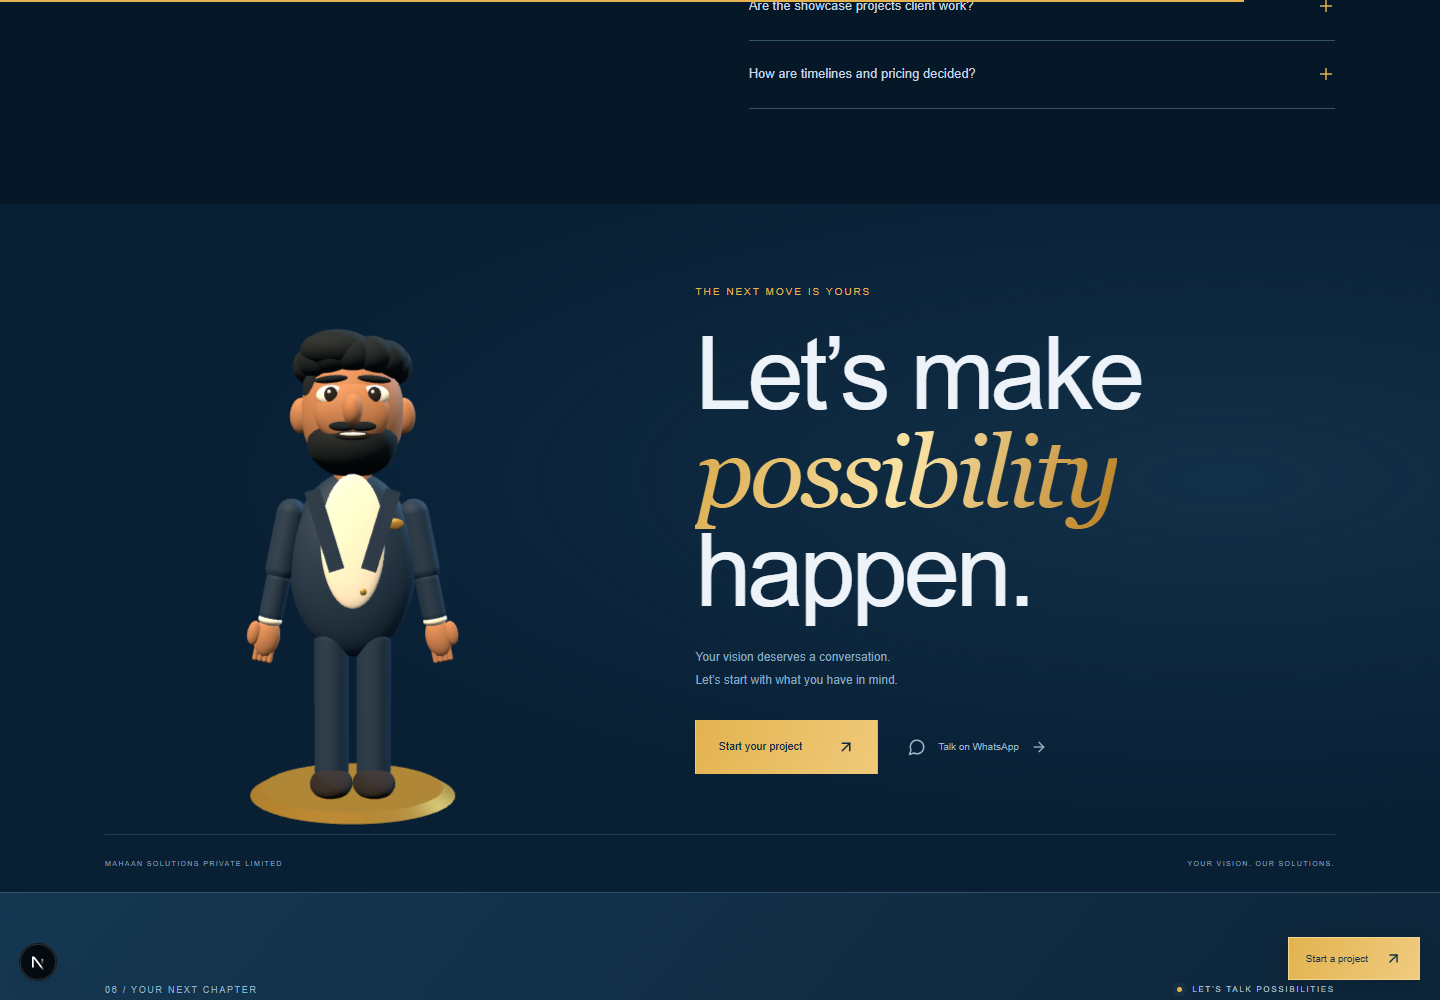
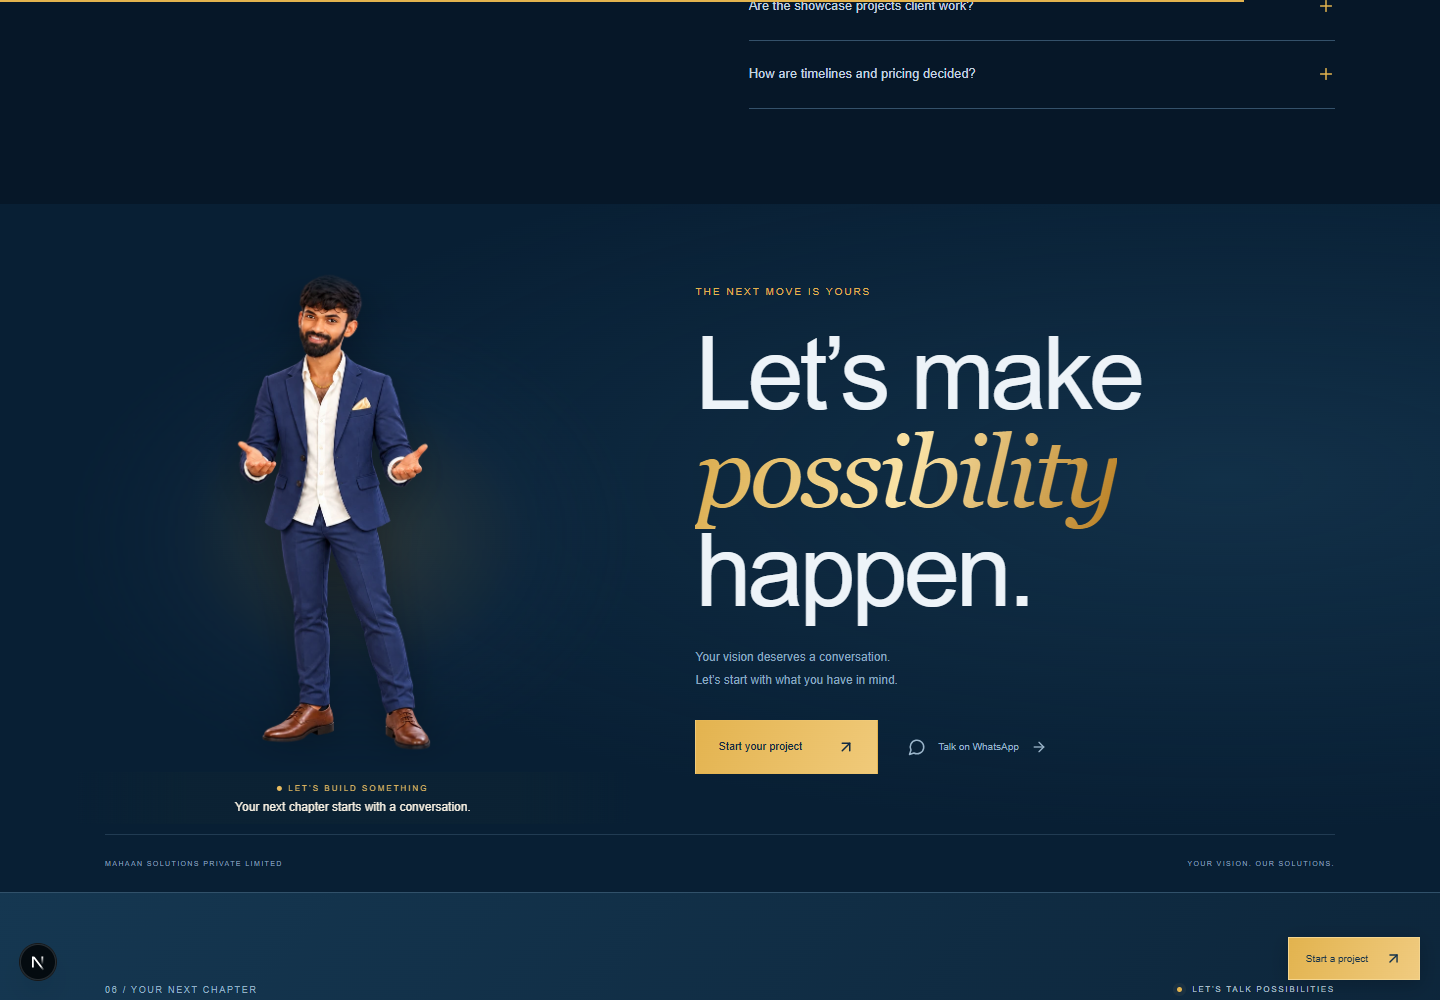
Update Site source

Changed region(s): [[0.1562, 0.279, 0.3438, 0.837]]

diff --git a/src/components/CartoonFounder.tsx b/src/components/CartoonFounder.tsx
@@ -1,44 +1,27 @@
 'use client';
 import {useEffect,useRef,useState} from 'react';
 import {createPortal} from 'react-dom';
-import * as T from 'three';
 import {useFounderVoice} from './FounderVoice';
+import type {FounderScene} from '@/data/founder-scenes';
 
-/** One persistent, locally rendered character. No generated video or identity service. */
+const poses=['welcome','present','invite'];
+/** Uses the actual approved artwork, preserving the face rather than approximating a 3D mesh. */
 export default function CartoonFounder(){
- const host=useRef<HTMLDivElement>(null),speaking=useRef(false),[mounted,setMounted]=useState(false),[failed,setFailed]=useState(false);
- const voice=useFounderVoice();speaking.current=voice.playing;const select=useRef(voice.selectScene);select.current=voice.selectScene;
- useEffect(()=>setMounted(true),[]);
- useEffect(()=>{if(!mounted||!host.current)return;const el=host.current;let renderer:T.WebGLRenderer;try{renderer=new T.WebGLRenderer({alpha:true,antialias:true,preserveDrawingBuffer:true});}catch{setFailed(true);return}
- renderer.setPixelRatio(Math.min(devicePixelRatio,1.75));renderer.outputColorSpace=T.SRGBColorSpace;renderer.setClearColor(0,0);el.appendChild(renderer.domElement);
- const scene=new T.Scene(),camera=new T.PerspectiveCamera(31,1,.1,100);camera.position.set(0,2.8,10);camera.lookAt(0,2.45,0);
- scene.add(new T.HemisphereLight(0xfff5df,0x26384b,3));const key=new T.DirectionalLight(0xffe9c9,4);key.position.set(-3,6,5);scene.add(key);const rim=new T.DirectionalLight(0x90cfff,3);rim.position.set(4,3,-3);scene.add(rim);
- const skin=new T.MeshStandardMaterial({color:0xb77950,roughness:.65}),hair=new T.MeshStandardMaterial({color:0x111b21,roughness:.8}),navy=new T.MeshStandardMaterial({color:0x183048,roughness:.67}),ivory=new T.MeshStandardMaterial({color:0xfff1d9,roughness:.85}),gold=new T.MeshStandardMaterial({color:0xd8a848,metalness:.6,roughness:.3}),white=new T.MeshStandardMaterial({color:0xfffbef}),dark=new T.MeshStandardMaterial({color:0x211b19});
- const rig=new T.Group();scene.add(rig);
- function ball(parent:T.Object3D,mat:T.Material,x:number,y:number,z:number,sx:number,sy:number,sz:number){const m=new T.Mesh(new T.SphereGeometry(1,32,24),mat);m.position.set(x,y,z);m.scale.set(sx,sy,sz);parent.add(m);return m}
- function limb(parent:T.Object3D,mat:T.Material,x:number,y:number,z:number,length:number,radius:number){const m=new T.Mesh(new T.CapsuleGeometry(radius,length-2*radius,6,16),mat);m.position.set(x,y,z);parent.add(m);return m}
- const hips=new T.Group();rig.add(hips);limb(hips,navy,-.21,.87,0,1.65,.17);limb(hips,navy,.21,.87,0,1.65,.17);ball(hips,dark,-.21,.13,.15,.21,.13,.38);ball(hips,dark,.21,.13,.15,.21,.13,.38);
- ball(rig,navy,0,2.28,0,.63,.92,.32);ball(rig,ivory,0,2.51,.295,.31,.65,.075);
- // Tailored lapels, gold pocket square and jacket buttons.
- const lapel=new T.Mesh(new T.BoxGeometry(.15,.8,.055),navy);lapel.position.set(-.27,2.62,.36);lapel.rotation.z=.3;rig.add(lapel);const lapel2=lapel.clone();lapel2.position.x=.27;lapel2.rotation.z=-.3;rig.add(lapel2);ball(rig,gold,.4,2.68,.3,.09,.055,.025);ball(rig,gold,.1,2.03,.33,.035,.035,.025);
- limb(rig,skin,0,3.19,0,.5,.19);
- const head=new T.Group();head.position.set(0,3.77,0);rig.add(head);ball(head,skin,0,0,0,.51,.64,.44);ball(head,skin,-.5,-.03,0,.12,.18,.105);ball(head,skin,.5,-.03,0,.12,.18,.105);
- ball(head,hair,0,-.29,.075,.445,.35,.4);ball(head,skin,0,-.04,.35,.36,.3,.15);
- ball(head,skin,0,-.02,.49,.095,.15,.12);
- const eyes:T.Mesh[]=[];for(const x of [-.205,.205]){ball(head,white,x,.13,.403,.14,.095,.049);eyes.push(ball(head,dark,x,.13,.449,.063,.072,.025));ball(head,white,x-.017,.154,.471,.017,.019,.01);const brow=ball(head,hair,x,.28,.405,.16,.035,.04);brow.rotation.z=x<0?.1:-.1;}
- for(let i=0;i<12;i++){const a=i/12*Math.PI*2;ball(head,hair,Math.cos(a)*.36,.46+Math.sin(a)*.07,Math.sin(a)*.22,.23,.2,.23)}ball(head,hair,-.15,.58,.19,.36,.2,.27);ball(head,hair,-.37,.23,.02,.12,.3,.22);
- const mouth=ball(head,dark,0,-.255,.468,.17,.045,.025);ball(head,white,0,-.244,.49,.125,.018,.012);ball(head,hair,-.095,-.17,.48,.13,.045,.035);ball(head,hair,.095,-.17,.48,.13,.045,.035);
- const arms:T.Group[]=[];for(const side of [-1,1]){const arm=new T.Group();arm.position.set(side*.58,2.9,0);rig.add(arm);limb(arm,navy,0,-.4,0,.85,.15);limb(arm,navy,0,-.96,.015,.58,.12);ball(arm,ivory,0,-1.2,.015,.12,.06,.12);ball(arm,skin,0,-1.37,.025,.13,.2,.09);for(let i=0;i<4;i++)limb(arm,skin,(i-1.5)*.049,-1.52,.03,.21,.027);ball(arm,skin,side*.13,-1.35,.07,.065,.12,.05);arms.push(arm)}
- const platform=new T.Mesh(new T.CylinderGeometry(.9,1.02,.07,64),new T.MeshStandardMaterial({color:0xd8a848,metalness:.7,roughness:.35}));platform.position.y=.025;scene.add(platform);
- let frame=0,start=performance.now(),pointer=0;const move=(e:PointerEvent)=>{pointer=(e.clientX/innerWidth-.5)*.3};window.addEventListener('pointermove',move,{passive:true});
- const tick=()=>{frame=requestAnimationFrame(tick);if(!el.isConnected)return;const t=(performance.now()-start)/1000,reduce=matchMedia('(prefers-reduced-motion:reduce)').matches,paused=document.querySelector('.solution-console')?.getAttribute('data-motion')==='paused';
- const slots=Array.from(document.querySelectorAll<HTMLElement>('[data-avatar-anchor]'));const target=slots.find(s=>{const b=s.getBoundingClientRect();return b.top<innerHeight*.75&&b.bottom>innerHeight*.25});if(!target){el.style.visibility='hidden';return}el.style.visibility='visible';const r=target.getBoundingClientRect();el.style.transform=`translate3d(${r.left}px,${r.top}px,0)`;el.style.width=`${r.width}px`;el.style.height=`${r.height}px`;renderer.setSize(r.width,r.height,false);camera.aspect=r.width/r.height;camera.updateProjectionMatrix();
- const active=target.dataset.avatarScene||'intro';if(el.dataset.scene!==active){el.dataset.scene=active;select.current(active as import('@/data/founder-scenes').FounderScene)}const motion=!reduce&&!paused;const arrival=Math.min(t/1.5,1);rig.position.y=motion&&t<1.5?Math.abs(Math.sin(arrival*Math.PI))*1.1:motion?Math.sin(t*1.8)*.018:0;rig.rotation.y=motion?pointer:0;head.rotation.y=motion?pointer*.9:0;head.rotation.z=motion?Math.sin(t*.7)*.035:0;
- arms[0].rotation.z=motion?(active==='intro'&&t<7?-2.35+Math.sin(t*7)*.15:active==='closing'?-.65:-.22):-.2;
- arms[1].rotation.z=motion?(active==='intro'? .22: .95+Math.sin(t*1.5)*.06):.2;arms[1].rotation.x=active==='intro'&&t>7&&motion?-.35:0;
- const blink=motion&&t%4.1<.13;eyes.forEach(e=>e.scale.y=blink?.009:.072);mouth.scale.y=speaking.current&&motion?.045+Math.abs(Math.sin(t*17))*.075:.045;
- renderer.render(scene,camera);
- };tick();return()=>{cancelAnimationFrame(frame);window.removeEventListener('pointermove',move);scene.traverse(o=>{if(o instanceof T.Mesh)o.geometry.dispose()});[skin,hair,navy,ivory,gold,white,dark].forEach(m=>m.dispose());renderer.dispose();el.replaceChildren()};
+ const host=useRef<HTMLDivElement>(null),[mounted,setMounted]=useState(false),[scene,setScene]=useState<FounderScene>('intro'),[arrival,setArrival]=useState(0);
+ const voice=useFounderVoice(),select=useRef(voice.selectScene);select.current=voice.selectScene;
+ useEffect(()=>{setMounted(true);const replay=()=>setArrival(n=>n+1);window.addEventListener('founder:replay',replay);return()=>window.removeEventListener('founder:replay',replay)},[]);
+ useEffect(()=>{if(!mounted||!host.current)return;const el=host.current;let frame=0,lastScene='',lastTime=0;let smooth:{x:number;y:number;w:number;h:number}|null=null;
+ const anchors=Array.from(document.querySelectorAll<HTMLElement>('[data-avatar-anchor]'));
+ const tick=(now:number)=>{frame=requestAnimationFrame(tick);if(now-lastTime<30)return;lastTime=now;
+ const target=anchors.find(a=>{const b=a.getBoundingClientRect();return b.top<innerHeight*.75&&b.bottom>innerHeight*.25});
+ if(!target){el.style.visibility='hidden';smooth=null;return}el.style.visibility='visible';const r=target.getBoundingClientRect(),active=(target.dataset.avatarScene||'intro') as FounderScene;
+ const reduce=matchMedia('(prefers-reduced-motion:reduce)').matches,paused=document.querySelector('.solution-console')?.getAttribute('data-motion')==='paused';
+ el.dataset.motion=reduce||paused?'paused':'running';
+ if(active!==lastScene){lastScene=active;setScene(active);select.current(active)}
+ const next={x:r.left,y:r.top,w:r.width,h:r.height};if(!smooth||reduce)smooth=next;else for(const k of ['x','y','w','h'] as const)smooth[k]+=(next[k]-smooth[k])*.28;
+ el.style.transform=`translate3d(${smooth.x}px,${smooth.y}px,0)`;el.style.width=`${smooth.w}px`;el.style.height=`${smooth.h}px`;
+ };frame=requestAnimationFrame(tick);return()=>cancelAnimationFrame(frame);
  },[mounted]);
- return mounted?createPortal(<div className="cartoon-founder" ref={host} role="img" aria-label="Animated cartoon founder inspired by Pulluru Bhanu Prakash Reddy">{failed&&<img src="/images/founder/cartoon.png" alt="Cartoon founder reference"/>}</div>,document.body):null;
+ const pose=scene==='intro'?'welcome':scene==='closing'?'invite':'present';
+ return mounted?createPortal(<div ref={host} className={`founder-presenter cartoon-founder ${voice.playing?'is-speaking':''}`} data-scene={scene} data-pose={pose} aria-label="Illustrated founder presenter — Pulluru Bhanu Prakash Reddy"><div key={arrival} className="presenter-arrival"><div className="presenter-aura"/><div className="presenter-art">{poses.map((p,i)=><img key={p} className={`presenter-pose ${p===pose?'is-active':''}`} src={`/images/founder/presenter-${p}.webp`} alt={p===pose?`Pulluru Bhanu Prakash Reddy, illustrated ${p==='welcome'?'waving welcome':p==='present'?'demonstrating the services':'inviting you to start a conversation'}`:''} aria-hidden={p!==pose} fetchPriority={i===0?'high':'auto'} draggable={false}/>)}</div><div className="presenter-shadow"/></div><div className="presenter-caption"><span className="presenter-status"><i/>{voice.playing?'PRESENTING':scene==='intro'?'MEET BHANU':scene==='closing'?'LET’S BUILD SOMETHING':'LET ME SHOW YOU'}</span><span>{scene==='intro'?<>Your vision. Our solutions.<small>Scroll down — I’ll introduce our services. ↓</small></>:scene==='closing'?'Your next chapter starts with a conversation.':scene==='digital-marketing'?'Reach the people who matter.':scene==='software-development'?'Turn your idea into working software.':'Connect your customers and your team.'}</span></div></div>,document.body):null;
 }

diff --git a/src/styles/brand-v3.css b/src/styles/brand-v3.css
@@ -11,3 +11,6 @@
 .cartoon-founder{position:fixed;left:0;top:0;z-index:12;pointer-events:none;contain:layout style;transition:opacity .2s}.cartoon-founder canvas,.cartoon-founder>img{width:100%;height:100%;display:block;object-fit:contain}.performance-slot{min-height:510px}.cartoon-service-anchor{width:100%;height:360px}.solution-stage{height:360px;min-height:360px;transform:none!important}.cartoon-closing-anchor{position:absolute;left:3%;bottom:65px;width:43%;height:560px}.company-finale{position:relative}.company-finale-copy{position:relative;z-index:15}.performance-slot .performance-arch{opacity:.25}.solution-console-caption .narration-control{margin-top:15px}.home-hero-visual{position:relative}.performance-identity{position:relative;z-index:15}@media(max-width:760px){.performance-slot{min-height:420px}.cartoon-service-anchor,.solution-stage{height:230px;min-height:230px}.cartoon-closing-anchor{position:relative;left:0;bottom:0;width:100%;height:360px}.company-finale-copy{padding-top:0}.solution-console-caption p{display:none}.solution-console .narration-button{font-size:11px}}
 
 .performance-frame{height:auto!important;overflow:visible}.performance-identity{min-height:76px;background:#10293f}.company-promise{padding:50px 25px;color:#183048}.company-promise>span{font-size:13px;letter-spacing:3px}.company-promise strong{display:block;font-size:clamp(40px,6vw,85px);line-height:1.05;margin:20px 0;color:#ad7b25}.company-promise p{font-size:14px}.company-finale-copy{margin-left:48%}@media(max-width:760px){.company-finale-copy{margin-left:0}.performance-identity{min-height:70px}}
+/* Detailed founder artwork replaces the primitive mesh. */
+.founder-presenter{z-index:12;pointer-events:none;isolation:isolate}.presenter-arrival{position:absolute;inset:0;animation:presenter-arrive 1.25s cubic-bezier(.16,1,.3,1) both}.presenter-art{position:absolute;inset:0 0 54px;animation:presenter-breathe 6s ease-in-out infinite;transform-origin:50% 100%}.founder-presenter .presenter-pose{position:absolute;inset:0;width:100%;height:100%;object-fit:contain;object-position:center bottom;opacity:0;transform:translateY(7px) scale(.985);transition:opacity .45s,transform .7s;filter:drop-shadow(0 12px 22px #0005)}.founder-presenter .presenter-pose.is-active{opacity:1;transform:translateY(0) scale(1)}.presenter-aura{position:absolute;inset:8% 4% 12%;border-radius:50%;background:radial-gradient(ellipse,#b8862c24,transparent 65%);filter:blur(10px)}.presenter-shadow{position:absolute;left:22%;right:22%;height:12px;bottom:48px;background:#0007;filter:blur(9px);border-radius:50%}.presenter-caption{position:absolute;left:5%;right:5%;bottom:2px;text-align:center;padding:11px 10px 8px;background:linear-gradient(90deg,#0b223300,#0b2233ed 20%,#0b2233ed 80%,#0b223300);color:#f5eee0;font-size:12px;line-height:1.4}.presenter-status{display:flex;align-items:center;justify-content:center;gap:6px;color:#e7bb60;font-size:8px;letter-spacing:2px;margin-bottom:5px}.presenter-status i{width:5px;height:5px;background:#e7bb60;border-radius:50%}.presenter-caption small{display:block;color:#aabac7;font-size:10px;margin-top:4px}.is-speaking .presenter-status i{animation:presenter-pulse .75s infinite alternate}.presenter-replay{background:transparent;border:0;color:#d8a848;font:inherit;font-size:10px;padding:8px 0;cursor:pointer;text-decoration:underline;text-underline-offset:4px}.performance-slot{min-height:550px!important}.performance-frame{border:0!important;background:radial-gradient(ellipse at 50% 60%,#18304888,transparent 70%)}.performance-frame-top{border:0!important}.performance-identity{border-top:1px solid #d8a84835!important;background:transparent!important;padding-top:18px!important}.performance-slot .performance-floor,.performance-slot .performance-arch{display:none}.performance-beats{margin-top:14px}.solution-stage,.cartoon-service-anchor{height:410px;min-height:410px}.founder-presenter[data-scene="closing"] .presenter-caption{font-size:12px}.founder-presenter[data-motion="paused"] *{animation:none!important;transition:none!important}.founder-presenter[data-motion="paused"] .presenter-arrival{transform:none;opacity:1}.company-finale{overflow:hidden}@keyframes presenter-arrive{0%{opacity:0;transform:translate3d(50px,-65px,0) scale(.94)}60%{opacity:1;transform:translate3d(0,5px,0) scale(1.01)}100%{opacity:1;transform:none}}@keyframes presenter-breathe{0%,100%{transform:translateY(0) rotate(-.2deg)}50%{transform:translateY(-4px) rotate(.2deg)}}@keyframes presenter-pulse{to{box-shadow:0 0 0 5px #d8a84820}}@media(max-width:760px){.performance-slot{min-height:470px!important}.solution-stage,.cartoon-service-anchor{height:270px;min-height:270px}.presenter-caption{font-size:9px;padding:7px 2px}.presenter-caption small{font-size:8px}.presenter-status{font-size:6px;letter-spacing:1px}.presenter-art{bottom:50px}.cartoon-closing-anchor{height:460px}}@media(prefers-reduced-motion:reduce){.founder-presenter *{animation:none!important;transition:none!important}}
+.founder-presenter .presenter-pose{mask-image:linear-gradient(to right,transparent,#000 8%,#000 92%,transparent),linear-gradient(to bottom,transparent,#000 5%,#000 93%,transparent);mask-composite:intersect;border-radius:42% 42% 8% 8%}.presenter-shadow{display:none}.presenter-aura{background:radial-gradient(ellipse,#c89b4130,#18304830 45%,transparent 70%)}

diff --git a/src/components/HomeHero.tsx b/src/components/HomeHero.tsx
@@ -2,4 +2,4 @@
 import {ArrowUpRight,ArrowDown,Play} from 'lucide-react';
 import {founderScenes} from '@/data/founder-scenes';
 import {NarrationButton} from './FounderVoice';
-export default function HomeHero(){return <section className="hero home-hero" id="home"><div className="home-hero-grid"/><div className="home-hero-copy"><div className="eyebrow"><span className="live-dot"/> DIGITAL THINKING. CONNECTED SOLUTIONS.</div><h1>MAHAAN<br/><span>SOLUTIONS.</span></h1><p className="home-hero-statement">Your vision.<br/><em>Made possible.</em></p><p className="home-hero-description">Digital marketing. CRM. Software development.<br/>A considered way to move your business forward.</p><div className="home-hero-actions"><a className="button button-gold" href="#expertise">Explore our services <ArrowUpRight size={18}/></a><a href="#contact" className="home-secondary-cta">Discuss your idea <ArrowUpRight size={17}/></a></div><div className="hero-founder-control"><NarrationButton scene="intro" label={founderScenes.intro.video?'Play introduction with sound':'Listen to the introduction'}/><span>Meet the cartoon founder · tap to hear the introduction</span></div></div><div className="home-hero-visual"><div className="performance-frame"><div className="performance-frame-top"><span>MEET YOUR FOUNDER GUIDE</span><span>01 / INTRODUCTION</span></div><div className="performance-slot" data-performance-mode="cartoon" data-avatar-anchor data-avatar-scene="intro"><div className="performance-floor"/><div className="performance-arch"/></div><div className="performance-identity"><div><small>FOUNDER / MAHAAN SOLUTIONS PRIVATE LIMITED</small><strong>Pulluru Bhanu Prakash Reddy</strong></div><ArrowUpRight size={24}/></div></div><div className="performance-beats"><span><i/> Arrive</span><span><i/> Introduce</span><span><i/> Explore</span></div></div><div className="home-hero-baseline"><a href="#expertise"><span><ArrowDown size={14}/></span> SCROLL TO EXPLORE OUR SERVICES</a><span>YOUR VISION. OUR SOLUTIONS.</span><span>MARKETING / CRM / SOFTWARE</span></div></section>}
+export default function HomeHero(){return <section className="hero home-hero" id="home"><div className="home-hero-grid"/><div className="home-hero-copy"><div className="eyebrow"><span className="live-dot"/> DIGITAL THINKING. CONNECTED SOLUTIONS.</div><h1>MAHAAN<br/><span>SOLUTIONS.</span></h1><p className="home-hero-statement">Your vision.<br/><em>Made possible.</em></p><p className="home-hero-description">Digital marketing. CRM. Software development.<br/>A considered way to move your business forward.</p><div className="home-hero-actions"><a className="button button-gold" href="#expertise">Explore our services <ArrowUpRight size={18}/></a><a href="#contact" className="home-secondary-cta">Discuss your idea <ArrowUpRight size={17}/></a></div><div className="hero-founder-control"><NarrationButton scene="intro" label={founderScenes.intro.video?'Play introduction with sound':'Listen to the introduction'}/><span>Your founder guide · English narration on request</span></div></div><div className="home-hero-visual"><div className="performance-frame"><div className="performance-frame-top"><span>MEET YOUR FOUNDER GUIDE</span><span>01 / INTRODUCTION</span></div><div className="performance-slot" data-performance-mode="cartoon" data-avatar-anchor data-avatar-scene="intro"><div className="performance-floor"/><div className="performance-arch"/></div><div className="performance-identity"><div><small>FOUNDER / MAHAAN SOLUTIONS PRIVATE LIMITED</small><strong>Pulluru Bhanu Prakash Reddy</strong></div><ArrowUpRight size={24}/></div></div><button className="presenter-replay" onClick={()=>window.dispatchEvent(new Event('founder:replay'))}>↻ Replay my entrance</button><div className="performance-beats"><span><i/> Arrive</span><span><i/> Introduce</span><span><i/> Explore</span></div></div><div className="home-hero-baseline"><a href="#expertise"><span><ArrowDown size={14}/></span> SCROLL TO EXPLORE OUR SERVICES</a><span>YOUR VISION. OUR SOLUTIONS.</span><span>MARKETING / CRM / SOFTWARE</span></div></section>}

diff --git a/docs/CARTOON-FOUNDER.md b/docs/CARTOON-FOUNDER.md
@@ -1,11 +1,13 @@
-# Cartoon founder presentation
+# Founder illustrated presenter
 
-The active website uses one procedural Three.js cartoon character inspired by the supplied founder photo: black wavy hair, full beard, warm brown skin, lean proportions and navy/gold clothing. It is a stylized interpretation, not a scan or an exact facial likeness.
+The active founder uses the generated likeness artwork rather than the previous procedural Three.js model. Face, hair, beard, lean build and navy suit follow the detailed reference. Three poses welcome visitors, demonstrate services and invite contact.
 
-The locally animated character arrives, waves, breathes, blinks, follows the pointer subtly and gestures beside services. One persistent canvas tracks hero, service and closing anchors. Service chapters update the optional English narration. Speaking motion follows playback state; it does not implement phoneme-level lip sync. Reduced-motion preference stops character motion; the service preview also has a pause control.
+One persistent DOM presenter interpolates position and size between hero, services and closing. Poses crossfade. Entrance replay, subtle breathing motion, captions and optional English browser narration provide the presentation. Pause and reduced-motion preferences stop decorative motion. No WebGL is required.
 
-`public/images/founder/cartoon.png` is a generated visual concept and WebGL fallback, not the rigged 3D model. The rig is authored in `src/components/CartoonFounder.tsx`. No company background films are used. No cartoon likeness was submitted to Google Flow to bypass its prior identity rejection.
+This is a 2D illustrated presentation with motion, not a rigged 3D character or lip-synced video. The founder voice is not recorded or cloned. No likeness was submitted to Google Flow to bypass its previous rejection.
 
-Verification: `node scripts/cartoon-qa.cjs` checks the persistent renderer, three service scenes, closing, pause, mobile overflow and browser errors. Screenshots: docs/cartoon-hero.png, cartoon-services.png, cartoon-closing.png, cartoon-mobile.png. Existing validation/security suite: 12 passing tests.
+Assets: public/images/founder/presenter-sheet.png and presenter-{welcome,present,invite}.webp. Built-in ImageGen produced the artwork. Sharp crops and optimizes sprites, preserving alpha. The prompt is in docs/PRESENTER-PROMPT.txt.
 
-The hosted static preview retains direct email, phone and WhatsApp contact. Database enquiries require the server environment and configured credentials; the static enquiry form prepares a downloadable brief.
+Verification: scripts/cartoon-qa.cjs checks loaded artwork, removal of the primitive canvas, entrance replay, all three service scenes, closing, pause, mobile overflow and browser errors. Screenshots in docs/cartoon-*.png show the tested appearance.
+
+The static enquiry form prepares a downloadable brief. Direct email, phone and WhatsApp contact remain available. Database submission needs configured server credentials.
